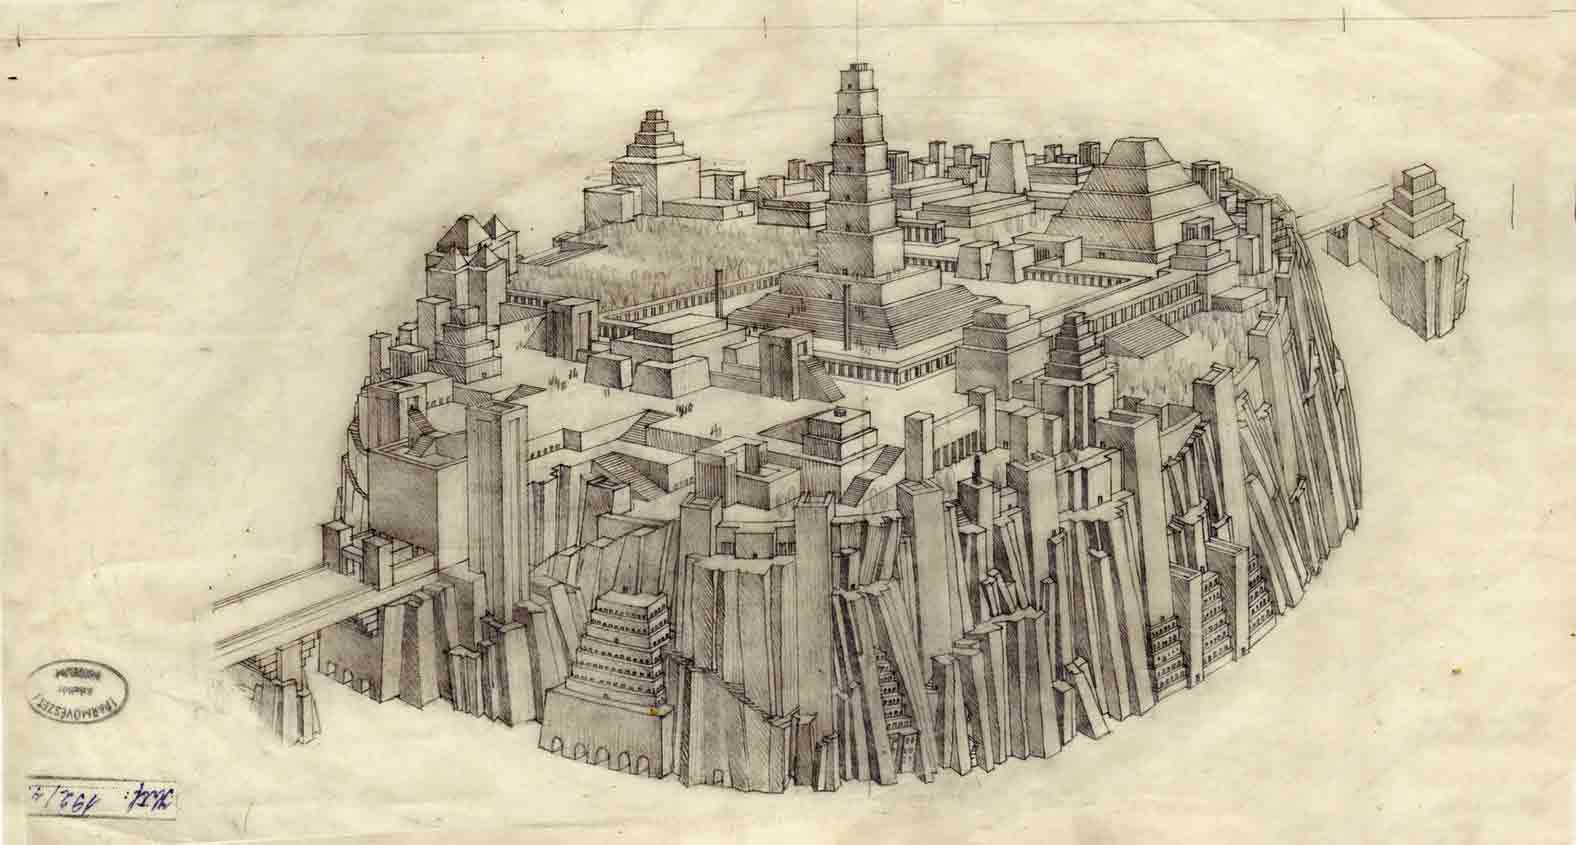
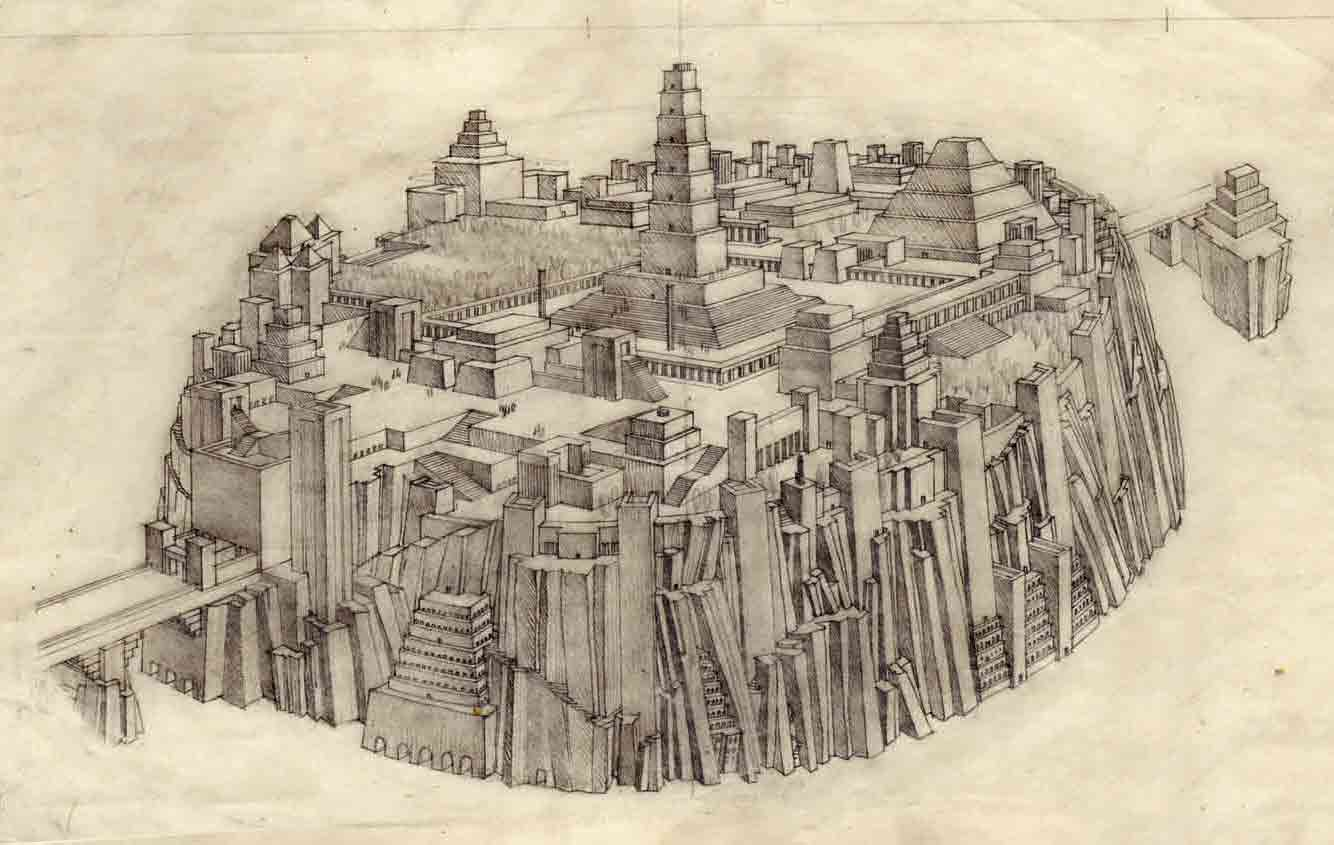
cropped photos, fixed some things for original size

diff --git a/index.html b/index.html
@@ -11,9 +11,9 @@
 
   <header>
     <img class="logo" src="images/logo.png" alt="">
-<h1>Museum of Antiquities</h1>
+<h1 class="title">Museum of Antiquities</h1>
   <nav>
-    <ol>
+    <ol class="nav">
       <li><a href="#sevenwonders">Seven wonders</a></li>
       <li><a href="#buytickets">Buy tickets</a></li>
       <li><a href="#nowplaying">Now playing</a></li>
@@ -25,7 +25,7 @@
   <figure>
     <img class="banner" src="images/ancientworld.jpg" alt="">
     <figcaption><strong>The Seven Wonders of the Ancient World</strong>
-    Remarkable constructions of classical antiquity almost completely lost in time.</figcaption>
+    <p>Remarkable constructions of classical antiquity almost completely lost in time.</p></figcaption>
   </figure>
 
 <h2 id="sevenwonders">The Seven Wonders</h2>
@@ -124,7 +124,7 @@
 <h2 id="thisweek">This week at the museum</h2>
 <ol>
   <li>
-    <h3>Saturday & Sunday</h3>
+    <h3 class="daysofweek">Saturday & Sunday</h3>
     <ul>
       <li>Atlantis city tours</li>
       <li>Underwater explorer: see outside the bubble</li>
@@ -132,7 +132,7 @@
   </li>
 
   <li>
-    <h3>Monday</h3>
+    <h3 class="daysofweek">Monday</h3>
     <ul>
       <li>Try this out: have fun building your own ancient wonder</li>
       <li>Amazing architecture: explore the science of how the pyramids were built</li>
@@ -140,7 +140,7 @@
   </li>
 
   <li>
-    <h3>Tuesday</h3>
+    <h3 class="daysofweek">Tuesday</h3>
     <ul>
       <li>Awesome art: witness art in action as a marble sculpture is born</li>
       <li>Gold rush: learn about the metal and why it was so coveted</li>
@@ -148,7 +148,7 @@
   </li>
 
   <li>
-    <h3>Wednesday</h3>
+    <h3 class="daysofweek">Wednesday</h3>
     <ul>
       <li>Try this out: wear clothes that the ancients wore</li>
       <li>Gardenology: learn to plant and maintain amazing gardens</li>
@@ -156,7 +156,7 @@
   </li>
 
   <li>
-    <h3>Thursday</h3>
+    <h3 class="daysofweek">Thursday</h3>
     <ul>
       <li>Amazing architecture: explore the science of buildings</li>
       <li>Gardenology: the science behind trees and the environment</li>
@@ -164,29 +164,29 @@
   </li>
 
   <li>
-    <h3>Friday</h3>
+    <h3 class="daysofweek">Friday</h3>
     <ul>
       <li>Atlantis city tours</li>
       <li>Awesome art: witness a full mosaic floor under construction</li>
     </ul>
   </li>
-
+</ol>
   <footer>
   <p>© Museum of Antiquities</p>
 
-  <p><a href="#">hello@antiquities.museum</a></p>
-  <p><a href="#">1 888 000 1618</a></p>
-  <p><a href="#">Hours</a></p>
-  <p><a href="#">Directions</a></p>
+  <p class="info"><a href="#">hello@antiquities.museum</a></p>
+  <p class="info"><a href="#">1 888 000 1618</a></p>
+  <p class="info"><a href="#">Hours</a></p>
+  <p class="info"><a href="#">Directions</a></p>
 
   <p>1618 Plato Blvd.</p>
   <p>Atlantis, Atlantis, Atlantic Ocean</p>
 
-  <p><a href="#">Exhibits</a></p>
-  <p><a href="#">Collections</a></p>
-  <p><a href="#">Donors & sponsors</a></p>
-  <p><a href="#">Teacher information</a></p>
-  <p><a href="#">Birthday rentals</a></p>
+  <p class="footerlink"><a href="#">Exhibits</a></p>
+  <p class="footerlink"><a href="#">Collections</a></p>
+  <p class="footerlink"><a href="#">Donors & sponsors</a></p>
+  <p class="footerlink"><a href="#">Teacher information</a></p>
+  <p class="footerlink"><a href="#">Birthday rentals</a></p>
     </footer>
   </body>
 </html>

diff --git a/css/main.css b/css/main.css
@@ -5,30 +5,31 @@ html {
   box-sizing: inherit;
 }
 body {
-
+  margin: 0;
 }
 header {
   margin: 0;
 }
 .banner {
-  margin: 0;
-  position: relative;
-  width: 100%;
 
 }
-h1 {
-
+p {
+  margin-left: 1rem;
+}
+.title {
+  font-size: 1.4rem;
+  text-align: center;
 }
 img {
   width: 100%;
-  padding: 1rem;
 }
 h2 {
 
 }
 .logo {
-  float: left;
-  width: 20%;
+  width: 9em;
+  margin: 0 auto;
+  display: block;
 
 }
 figure {
@@ -37,35 +38,37 @@ figure {
   width: 100%;
   position: relative;
   text-shadow: 3px 4px 4px #000;
+  display: block;
+
 }
 figcaption {
   position: absolute;
-  bottom: 20%;
-  left: 0;
+  bottom: 14%;
   width: 100%;
   color: #fff;
-  font-size: 1.5rem;
+  font-size: 1rem;
   font-style: italic;
   text-align: center;
 
 }
-nav ol li {
-  display: inline-block;
-  text-align: center;
-  padding: 0.7em;
-  float: left;
-  width: 25%;
+.nav {
   margin: 0;
-}
-
-ol li h3 {
+  padding: 0;
   list-style-type: none;
 }
+.nav a {
+  display: block;
+  padding: .5em 1em;
+  text-decoration: none;
+  border: 1px solid #000;
+}
+
 a.learnmore {
   padding: .5rem 3rem;
   border: 1px solid #000;
   display: block;
   text-align: center;
+margin: 1rem;
 
 }
 a.buttons {
@@ -76,7 +79,7 @@ a.buttons {
   position: relative;
   left: 50%;
   transform: translateX(-100%);
-  margin-top: 5em;
+  margin-top: 2em;
 }
 .bannerbtn {
   padding: .5rem;
@@ -86,8 +89,36 @@ a.buttons {
   position: relative;
   left: 50%;
   transform: translateX(-55%);
+}
+.daysofweek {
 
+}
+ol {
+  list-style-type: none;
+  padding: .5em;
 }
 footer {
   border-top: 1px solid #000;
+  background-color: lavender;
+  color: #000;
+  margin: 0;
+  padding: 0;
+}
+.info {
+
+}
+.footerlink {
+  line-height: 10px;
+}
+
+
+@media only screen and (min-width: 24em) {
+.nav li {
+  display: inline-block;
+  text-align: center;
+  padding: 0.7em;
+  float: left;
+  width: 25%;
+  margin: 0;
+}
 }
